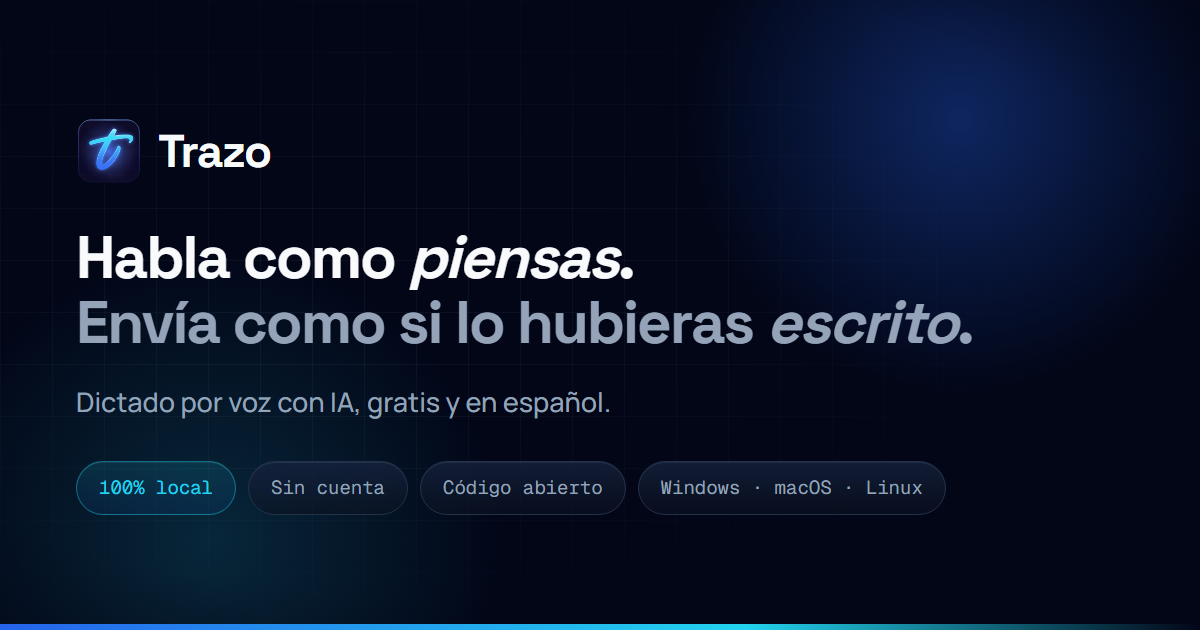
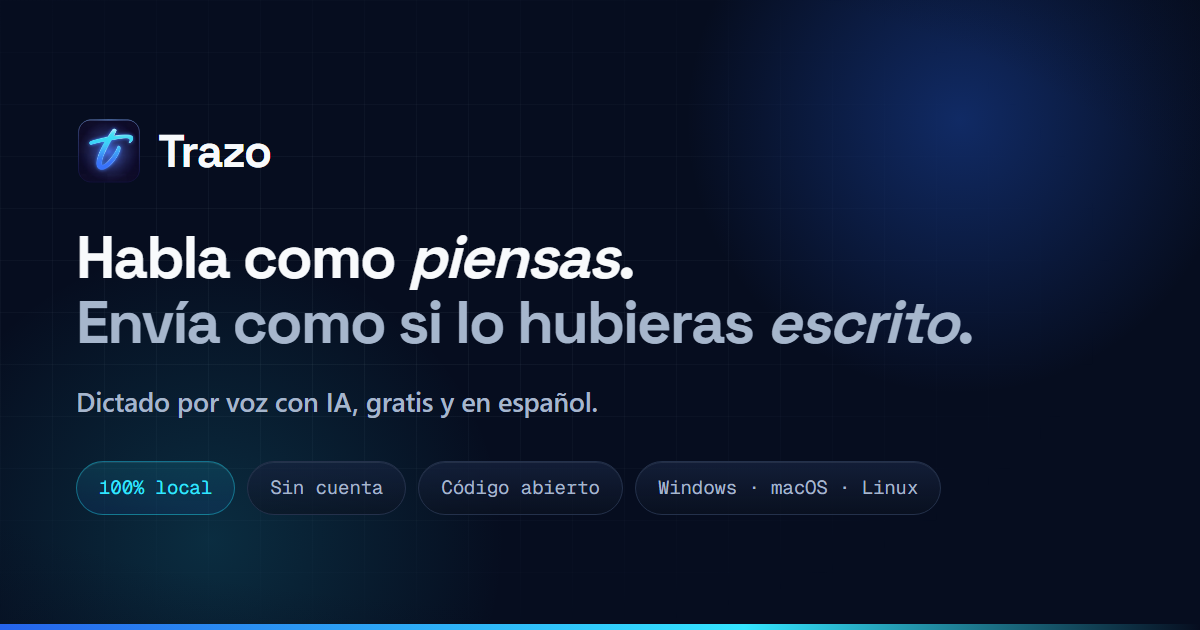
fix(landing): la cache inmutable congelaba el hero, y azul mas luminoso
El fallo que costo la sesion: /assets/ se servia con cache de un ano e
inmutable, y el video del hero se regeneró conservando el nombre. Para
cualquiera que ya hubiera visitado la pagina, ese archivo estaba marcado
"nunca vuelvas a pedirlo": seguia viendo el video viejo y ningun deploy se lo
cambiaba. El servidor tenia lo nuevo; el navegador no lo pedia.

Arreglado por los dos lados: nombres versionados (hero-v2.*) y /assets/ pasa a
cache corta con revalidacion. Y una regla nueva en el gate: si vercel.json
declara immutable sobre una ruta, todo lo que sirva tiene que llevar version o
hash en el nombre. Probada en rojo.

De paso, el chequeo de presupuesto del hero apuntaba a una lista de nombres
escrita a mano; al versionarlos quedo midiendo 0 bytes y pasando en verde sin
comprobar nada. Ahora lee los archivos del propio HTML y falla si suman cero.

Paleta: el azul se veia apagado porque los fondos eran casi grises (#0B1220
tiene poquisimo azul real) y el primario cargaba con todo. La regla que ordena
la paleta nueva: ningun azul lo bastante brillante para verse electrico
aguanta texto blanco encima — #3D7BFF con blanco da 3.67 y el minimo es 4.5.
Asi que el brillante va donde NO hay texto (bordes, glows, gradientes, hover) y
el relleno del boton se queda donde el blanco se lee. Fondos con azul de
verdad, superficies mas claras, cian de #22D3EE a #34E5FF y glows al doble.

Tipografia: el cuerpo pasa de Manrope a Geist, que es lo que el contrato de
[…]

diff --git a/landing/styles.css b/landing/styles.css
@@ -697,6 +697,269 @@ h2 em,h1 em{font-style:italic}
   .bg-stage::after{opacity:.5}
 }
 
+
+/* ═══════════════════════════════════════════════════════════════
+   TANDA 2 — tipografía, gradientes y el filo que recorre el header
+   ═══════════════════════════════════════════════════════════════ */
+
+:root{
+  /* Geist para el cuerpo: es lo que el contrato de diseno pedia desde el
+     principio. Manrope nunca estuvo ahi. Geist y Geist Mono son la misma
+     superfamilia, asi que la pagina baja de 3 familias a 2 + display. */
+  --font-sans:"Geist",system-ui,-apple-system,"Segoe UI",sans-serif;
+}
+
+/* Geist tiene ojo mas pequeno que Manrope: se compensa con altura de linea
+   y un pelo de tracking negativo en los tamanos grandes. */
+body{letter-spacing:-.005em}
+.display{letter-spacing:-.028em}
+h2.display{letter-spacing:-.03em}
+.hero h1{letter-spacing:-.038em}
+.eyebrow{letter-spacing:.08em;text-transform:none}
+.sub,.hero-sub,.privacy .lead{letter-spacing:-.008em}
+
+/* ── El filo que recorre el header ──────────────────────────────
+   Un hilo de luz que da la vuelta al borde de la pildora. Va lento y
+   con la mayor parte del recorrido apagado, para que se lea como un
+   destello que pasa y no como un cartel de neon. */
+@property --giro{syntax:"<angle>";initial-value:0deg;inherits:false}
+
+.nav-pill{position:relative}
+/* El contenido va por encima del filo */
+.nav-pill > *{position:relative;z-index:1}
+.nav-pill::before{
+  content:"";position:absolute;inset:0;border-radius:inherit;z-index:0;
+  padding:1px;pointer-events:none;
+  background:conic-gradient(from var(--giro),
+    transparent 0deg 300deg,
+    rgba(61,123,255,.55) 330deg,
+    var(--accent) 348deg,
+    transparent 360deg);
+  /* Sin esta máscara el degradado se ve a través de toda la píldora,
+     porque su fondo es translúcido. La máscara lo recorta al anillo. */
+  -webkit-mask:linear-gradient(#000 0 0) content-box,linear-gradient(#000 0 0);
+  -webkit-mask-composite:xor;
+  mask:linear-gradient(#000 0 0) content-box,linear-gradient(#000 0 0);
+  mask-composite:exclude;
+  animation:recorrerBorde 7s linear infinite;
+}
+@keyframes recorrerBorde{to{--giro:360deg}}
+
+/* Sin @property el angulo no interpola: se deja un filo fijo, discreto */
+@supports not (background: conic-gradient(from var(--giro), red, blue)){
+  .nav-pill::before{
+    background:linear-gradient(120deg,transparent 40%,rgba(34,211,238,.4) 55%,transparent 70%);
+    animation:none;
+  }
+}
+
+/* ── Gradientes: aurora arriba y superficies con temperatura ────
+   El fondo era plano; ahora tiene una capa alta que tine la parte
+   superior y se apaga hacia el medio. */
+.bg-stage::before{
+  content:"";position:absolute;inset:0 0 auto 0;height:72vh;pointer-events:none;
+  background:
+    radial-gradient(120% 85% at 78% -12%,rgba(34,211,238,.10),transparent 62%),
+    radial-gradient(95% 70% at 22% -8%,rgba(37,99,235,.16),transparent 60%),
+    linear-gradient(180deg,rgba(37,99,235,.05),transparent 78%);
+}
+
+/* Las superficies dejan de ser un gris azulado plano */
+.panel,.feature,.proof-item,.quotes blockquote{
+  background:
+    linear-gradient(180deg,rgba(22,35,63,.60),rgba(15,26,48,.34)),
+    radial-gradient(140% 110% at 0% 0%,rgba(59,130,246,.09),transparent 58%);
+}
+.cta-card{
+  background:
+    linear-gradient(180deg,rgba(22,35,63,.66),rgba(11,18,32,.8)),
+    radial-gradient(90% 70% at 50% 0%,rgba(37,99,235,.14),transparent 62%);
+}
+
+/* Barra de anuncio: el degradado ahora corre y no se queda quieto */
+.announce::before{
+  background:
+    linear-gradient(180deg,rgba(15,26,48,.92),rgba(11,18,32,.62)),
+    linear-gradient(90deg,transparent,rgba(37,99,235,.16),transparent);
+}
+
+/* La barra de velocidad gana volumen en vez de ser un bloque de color */
+.bar-speak{
+  background:linear-gradient(90deg,var(--primary) 0%,#3B82F6 42%,var(--accent) 100%);
+  box-shadow:inset 0 1px 0 rgba(248,250,252,.4),0 0 30px rgba(34,211,238,.45);
+}
+
+/* ── El isotipo respira con la marca ────────────────────────────  */
+.brand-mark{
+  box-shadow:0 0 0 1px rgba(34,211,238,.18),0 0 18px -4px rgba(34,211,238,.5);
+  transition:box-shadow .35s var(--ease-out),transform .35s var(--ease-out);
+}
+.brand:hover .brand-mark{
+  box-shadow:0 0 0 1px rgba(34,211,238,.4),0 0 26px -2px rgba(34,211,238,.75);
+  transform:translateY(-1px);
+}
+
+/* ── Los logos del carrusel dejan de ser calcomanias planas ───── */
+.app-logo-img{
+  opacity:.5;filter:saturate(.75) brightness(1.05);
+  transition:opacity .35s var(--ease-out),filter .35s var(--ease-out),transform .35s var(--ease-out);
+}
+.app-logo-img:hover{
+  opacity:1;filter:saturate(1) brightness(1.12) drop-shadow(0 0 12px rgba(34,211,238,.45));
+  transform:translateY(-4px) scale(1.06);
+}
+
+/* ── Enlaces del nav: subrayado que se traza al pasar ──────────  */
+.nav-links a{position:relative}
+.nav-links a::after{
+  content:"";position:absolute;left:0;right:0;bottom:-5px;height:1.5px;border-radius:999px;
+  background:linear-gradient(90deg,var(--accent),rgba(37,99,235,.4));
+  transform:scaleX(0);transform-origin:0 50%;
+  transition:transform .32s var(--ease-out);
+}
+.nav-links a:hover::after{transform:scaleX(1)}
+
+@media (prefers-reduced-motion:reduce){
+  .nav-pill::before{animation:none}
+}
+
+
+/* ═══════════════════════════════════════════════════════════════
+   TANDA 3 — azul eléctrico luminoso sobre base oscura
+   ═══════════════════════════════════════════════════════════════
+
+   El azul se veía apagado porque los fondos eran casi grises (#0B1220
+   tiene poquísimo azul real) y el primario cargaba con todo el trabajo.
+
+   La regla que ordena esta paleta: NINGÚN azul lo bastante brillante
+   como para verse eléctrico aguanta texto blanco encima. Medido:
+   #3D7BFF con blanco da 3.67 y el mínimo es 4.5. Así que el brillante
+   va a todo lo que NO lleva texto — bordes, glows, gradientes, hover —
+   y el relleno del botón se queda en el azul donde el blanco se lee.
+   ═══════════════════════════════════════════════════════════════ */
+
+:root{
+  /* Fondos: más azul real, no gris azulado */
+  --bg-deep:#060D1F;
+  --bg:#0D1930;
+  --surface:#16243F;
+  --surface-2:#1E3054;
+  --border:#2C3E63;
+
+  /* Relleno con texto blanco encima: 4.94 de contraste */
+  --primary:#2563EB;
+  --primary-hover:#1D4ED8;
+  /* Luminoso, solo donde no hay texto: 4.57 contra el fondo */
+  --primary-bright:#3D7BFF;
+
+  --accent:#34E5FF;
+
+  --text:#F8FAFC;
+  --text-2:#A6B6CC;
+  --text-3:#8FA1BA;
+
+  --glass:linear-gradient(180deg,rgba(30,48,84,.55),rgba(22,36,63,.4));
+  --halo-primary:rgba(61,123,255,.55);
+  --halo-accent:rgba(52,229,255,.45);
+}
+
+/* ── Los glows dejan de ser un susurro ─────────────────────────── */
+.bg-glow-a{
+  background:radial-gradient(closest-side,
+    rgba(61,123,255,.36),rgba(37,99,235,.12) 52%,transparent 72%);
+}
+.bg-glow-b{
+  background:radial-gradient(closest-side,
+    rgba(52,229,255,.24),rgba(52,229,255,.07) 52%,transparent 72%);
+}
+.bg-stage::after{
+  background:radial-gradient(closest-side,rgba(61,123,255,.22),transparent 70%);
+}
+.bg-stage::before{
+  background:
+    radial-gradient(120% 85% at 78% -12%,rgba(52,229,255,.16),transparent 62%),
+    radial-gradient(95% 70% at 22% -8%,rgba(61,123,255,.24),transparent 60%),
+    linear-gradient(180deg,rgba(61,123,255,.08),transparent 78%);
+}
+.bg-grid{
+  background-image:
+    linear-gradient(rgba(120,160,220,.075) 1px,transparent 1px),
+    linear-gradient(90deg,rgba(120,160,220,.075) 1px,transparent 1px);
+}
+
+/* ── El CTA: brillante arriba, legible donde va el texto ───────── */
+.cta-primary{
+  background:linear-gradient(180deg,var(--primary-bright) 0%,var(--primary) 48%,var(--primary-hover) 100%);
+  border-color:rgba(61,123,255,.75);
+  box-shadow:
+    inset 0 1px 0 rgba(248,250,252,.4),
+    0 14px 38px -8px rgba(61,123,255,.6),
+    0 0 0 1px rgba(61,123,255,.25);
+}
+.cta-primary:hover{
+  background:linear-gradient(180deg,#5A90FF 0%,var(--primary) 52%,var(--primary-hover) 100%);
+  box-shadow:
+    inset 0 1px 0 rgba(248,250,252,.5),
+    0 18px 46px -8px rgba(61,123,255,.75),
+    0 0 0 1px rgba(61,123,255,.4);
+}
+
+/* ── Superficies: más claras y con temperatura azul ────────────── */
+.panel,.feature,.proof-item,.quotes blockquote{
+  background:
+    linear-gradient(180deg,rgba(30,48,84,.62),rgba(22,36,63,.38)),
+    radial-gradient(140% 110% at 0% 0%,rgba(61,123,255,.14),transparent 58%);
+  border-color:rgba(44,62,99,.95);
+}
+.cta-card{
+  background:
+    linear-gradient(180deg,rgba(30,48,84,.66),rgba(13,25,48,.82)),
+    radial-gradient(90% 70% at 50% 0%,rgba(61,123,255,.2),transparent 62%);
+  border-color:rgba(44,62,99,1);
+}
+.nav-pill{
+  background:linear-gradient(180deg,rgba(30,48,84,.72),rgba(13,25,48,.58));
+  border-color:rgba(61,123,255,.28);
+}
+.hero-badges li,.chip,.dl{
+  border-color:rgba(61,123,255,.26);
+}
+.dl:hover{border-color:rgba(61,123,255,.75)}
+
+/* ── El cián manda como luz de acento ──────────────────────────── */
+.eyebrow,.panel-after .panel-label,.dict .ok,.chip,.proofs .check{color:var(--accent)}
+.brand::after{background:var(--accent);box-shadow:0 0 10px rgba(52,229,255,.9)}
+.announce .dot{
+  background:var(--accent);
+  box-shadow:0 0 12px rgba(52,229,255,1),0 0 26px rgba(52,229,255,.55);
+}
+.icon{
+  color:var(--accent);
+  background:linear-gradient(180deg,rgba(52,229,255,.2),rgba(61,123,255,.14));
+  border-color:rgba(52,229,255,.4);
+  box-shadow:var(--inner-light),0 0 26px -6px rgba(52,229,255,.6);
+}
+.panel-after{border-color:rgba(52,229,255,.42)}
+.bar-speak{
+  background:linear-gradient(90deg,var(--primary-bright) 0%,#5AA6FF 40%,var(--accent) 100%);
+  box-shadow:inset 0 1px 0 rgba(248,250,252,.45),0 0 36px rgba(52,229,255,.55);
+}
+.container > h2.display::after{
+  background:linear-gradient(90deg,var(--accent),rgba(61,123,255,.2));
+  box-shadow:0 0 16px rgba(52,229,255,.75);
+}
+.feature:hover{border-color:rgba(61,123,255,.7)}
+.proof-item:hover{border-color:rgba(61,123,255,.7)}
+
+/* ── El velo del hero deja pasar más color del video ───────────── */
+.hero-veil{
+  background:
+    linear-gradient(90deg,rgba(6,13,31,.66) 0%,rgba(6,13,31,.16) 58%,transparent 100%),
+    linear-gradient(180deg,rgba(6,13,31,.5) 0%,rgba(13,25,48,.16) 40%,rgba(13,25,48,.45) 74%,var(--bg) 100%);
+}
+.privacy{background:linear-gradient(180deg,var(--bg-deep),#0A1428 55%,var(--bg))}
+.footer{background:linear-gradient(180deg,var(--bg),var(--bg-deep))}
+
 @media (min-width:760px){
   .proof-grid{grid-template-columns:repeat(2,1fr)}
 }

diff --git a/landing/index.html b/landing/index.html
@@ -5,7 +5,7 @@
   <meta name="viewport" content="width=device-width, initial-scale=1">
   <title>Trazo — Dictado por voz con IA, gratis y en español</title>
   <meta name="description" content="Habla como piensas y envía como si lo hubieras escrito. Dictado por voz con IA, gratis, en español y 100% local. Tu voz nunca sale de tu computador.">
-  <meta name="theme-color" content="#020617">
+  <meta name="theme-color" content="#060D1F">
   <link rel="canonical" href="https://usatrazo.vercel.app/">
 
   <link rel="icon" href="assets/icons/icon-32.png" type="image/png" sizes="32x32">
@@ -32,7 +32,7 @@
 
   <link rel="preconnect" href="https://fonts.googleapis.com">
   <link rel="preconnect" href="https://fonts.gstatic.com" crossorigin>
-  <link href="https://fonts.googleapis.com/css2?family=Space+Grotesk:wght@500;600;700&family=Manrope:wght@400;500;600;700&family=Geist+Mono:wght@400;500&display=swap" rel="stylesheet">
+  <link href="https://fonts.googleapis.com/css2?family=Space+Grotesk:wght@500;600;700&family=Geist:wght@300;400;500;600;700&family=Geist+Mono:wght@400;500&display=swap" rel="stylesheet">
   <link rel="stylesheet" href="styles.css">
 
   <script type="application/ld+json">
@@ -87,9 +87,13 @@
       <section class="hero-scroll" id="hero-scroll">
         <div class="hero-sticky hero">
           <div class="hero-media" aria-hidden="true">
-            <video id="hero-video" muted playsinline preload="auto" poster="assets/hero/poster.jpg">
-              <source src="assets/hero/hero.webm" type="video/webm">
-              <source src="assets/hero/hero.mp4" type="video/mp4">
+            <!-- Nombres versionados a propósito: /assets/ se sirve con caché
+                 inmutable de un año. Sobrescribir un archivo sin cambiarle el
+                 nombre deja al visitante que ya estuvo viendo la versión vieja
+                 para siempre. Al regenerar el video, sube el sufijo. -->
+            <video id="hero-video" muted playsinline preload="auto" poster="assets/hero/poster-v2.jpg">
+              <source src="assets/hero/hero-v2.webm" type="video/webm">
+              <source src="assets/hero/hero-v2.mp4" type="video/mp4">
             </video>
             <div class="hero-veil"></div>
           </div>
